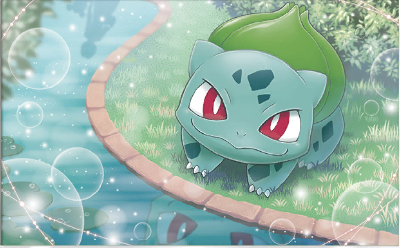
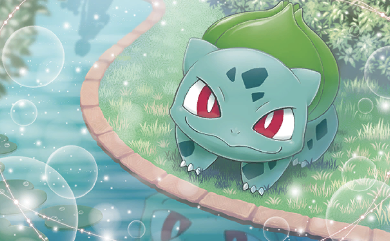
Header carte

diff --git a/pokemon.css b/pokemon.css
@@ -1,3 +1,9 @@
+
+@font-face {
+    font-family: Blaster;
+    src: url(/font/blaster.ttf);
+}
+  
 body{
     background: linear-gradient(-45deg, #0A8703,#218A97,#130561);
     height: 100vh;
@@ -72,22 +78,39 @@ body{
 
 }
 #img_pokemon{
-    width: 95% ;
-    
+    width: 93% ;
+    background: linear-gradient(rgb(185, 185, 185), rgb(134, 133, 133), rgb(185, 185, 185));
+    padding: 3px;
 }
 
 
-#carte h1{
-
-    padding: 0;
-    font-family: sans-serif;
-    font-size: 20px;
-    text-align: left;
-    width: 90%;
+#carte-header{
+    display: flex;
+    justify-content: space-between;
+    align-items: center;
+    width: 100%;
     margin: auto;
     margin-top: 4px;
     margin-bottom: 4px;
+    padding: 0;
+}
 
+
+#carte-header p, h1{
+    margin: 0;
+}
+
+
+#carte-header > div{
+    display: flex;
+    align-items: center;
+}
+
+#carte h1{
+
+
+    font-family: sans-serif;
+    font-size: 20px;
 }
 
 
@@ -96,3 +119,45 @@ body{
     z-index: 1;
 
 }
+
+#carte-header img{
+    height: 20px;
+    border: 1px solid white;
+    border-radius: 50px;
+    margin-left: 2px;
+    margin-right: 2px;
+}
+
+:root{
+    --blanc: #f0f0f0;
+    --gris: #a5a5a5;
+}
+
+#carte-header > div:first-of-type p{
+    background: linear-gradient(-180deg, var(--blanc), var(--gris), var(--blanc), var(--blanc), var(--blanc), var(--gris), var(--gris), var(--gris), var(--gris));
+    border-radius: 16px;
+    padding: 1px 9px;
+    font-family: Blaster;
+    color: #5d5d5e;
+    text-shadow:
+    -1px -1px 0 #fff,
+    1px -1px 0 #fff,
+    -1px 1px 0 #fff,
+    1px 1px 0 #fff; 
+    box-shadow: 1px 1px 2px rgb(45, 45, 45);
+    transform: skew(-14deg);
+    font-size: 13px;
+    position: relative;
+    left: -5px;
+}
+#carte-header p > span{
+    font-size: 8px;
+    
+}
+
+#carte-header p:last-of-type{
+    font-family: sans-serif;
+    font-weight: bold;
+    font-size: 20px;
+}
+

diff --git a/pokemon.html b/pokemon.html
@@ -37,7 +37,20 @@
 
 
         <div id="carte">
-            <h1>Bulbizarre</h1>
+            <div id="carte-header">
+                <div>
+                    <p>BASE</p>
+                    <h1>Bulbizarre</h1>
+                </div>
+               
+                <div>
+                    <p><span>PV</span>70</p>
+                    <img src="img/type-feuille.png" alt="Type">
+                </div>
+
+               
+            </div>
+            
             <img id="img_pokemon"src="img/bulbizarre.png" alt="">
         </div>
     </div>
